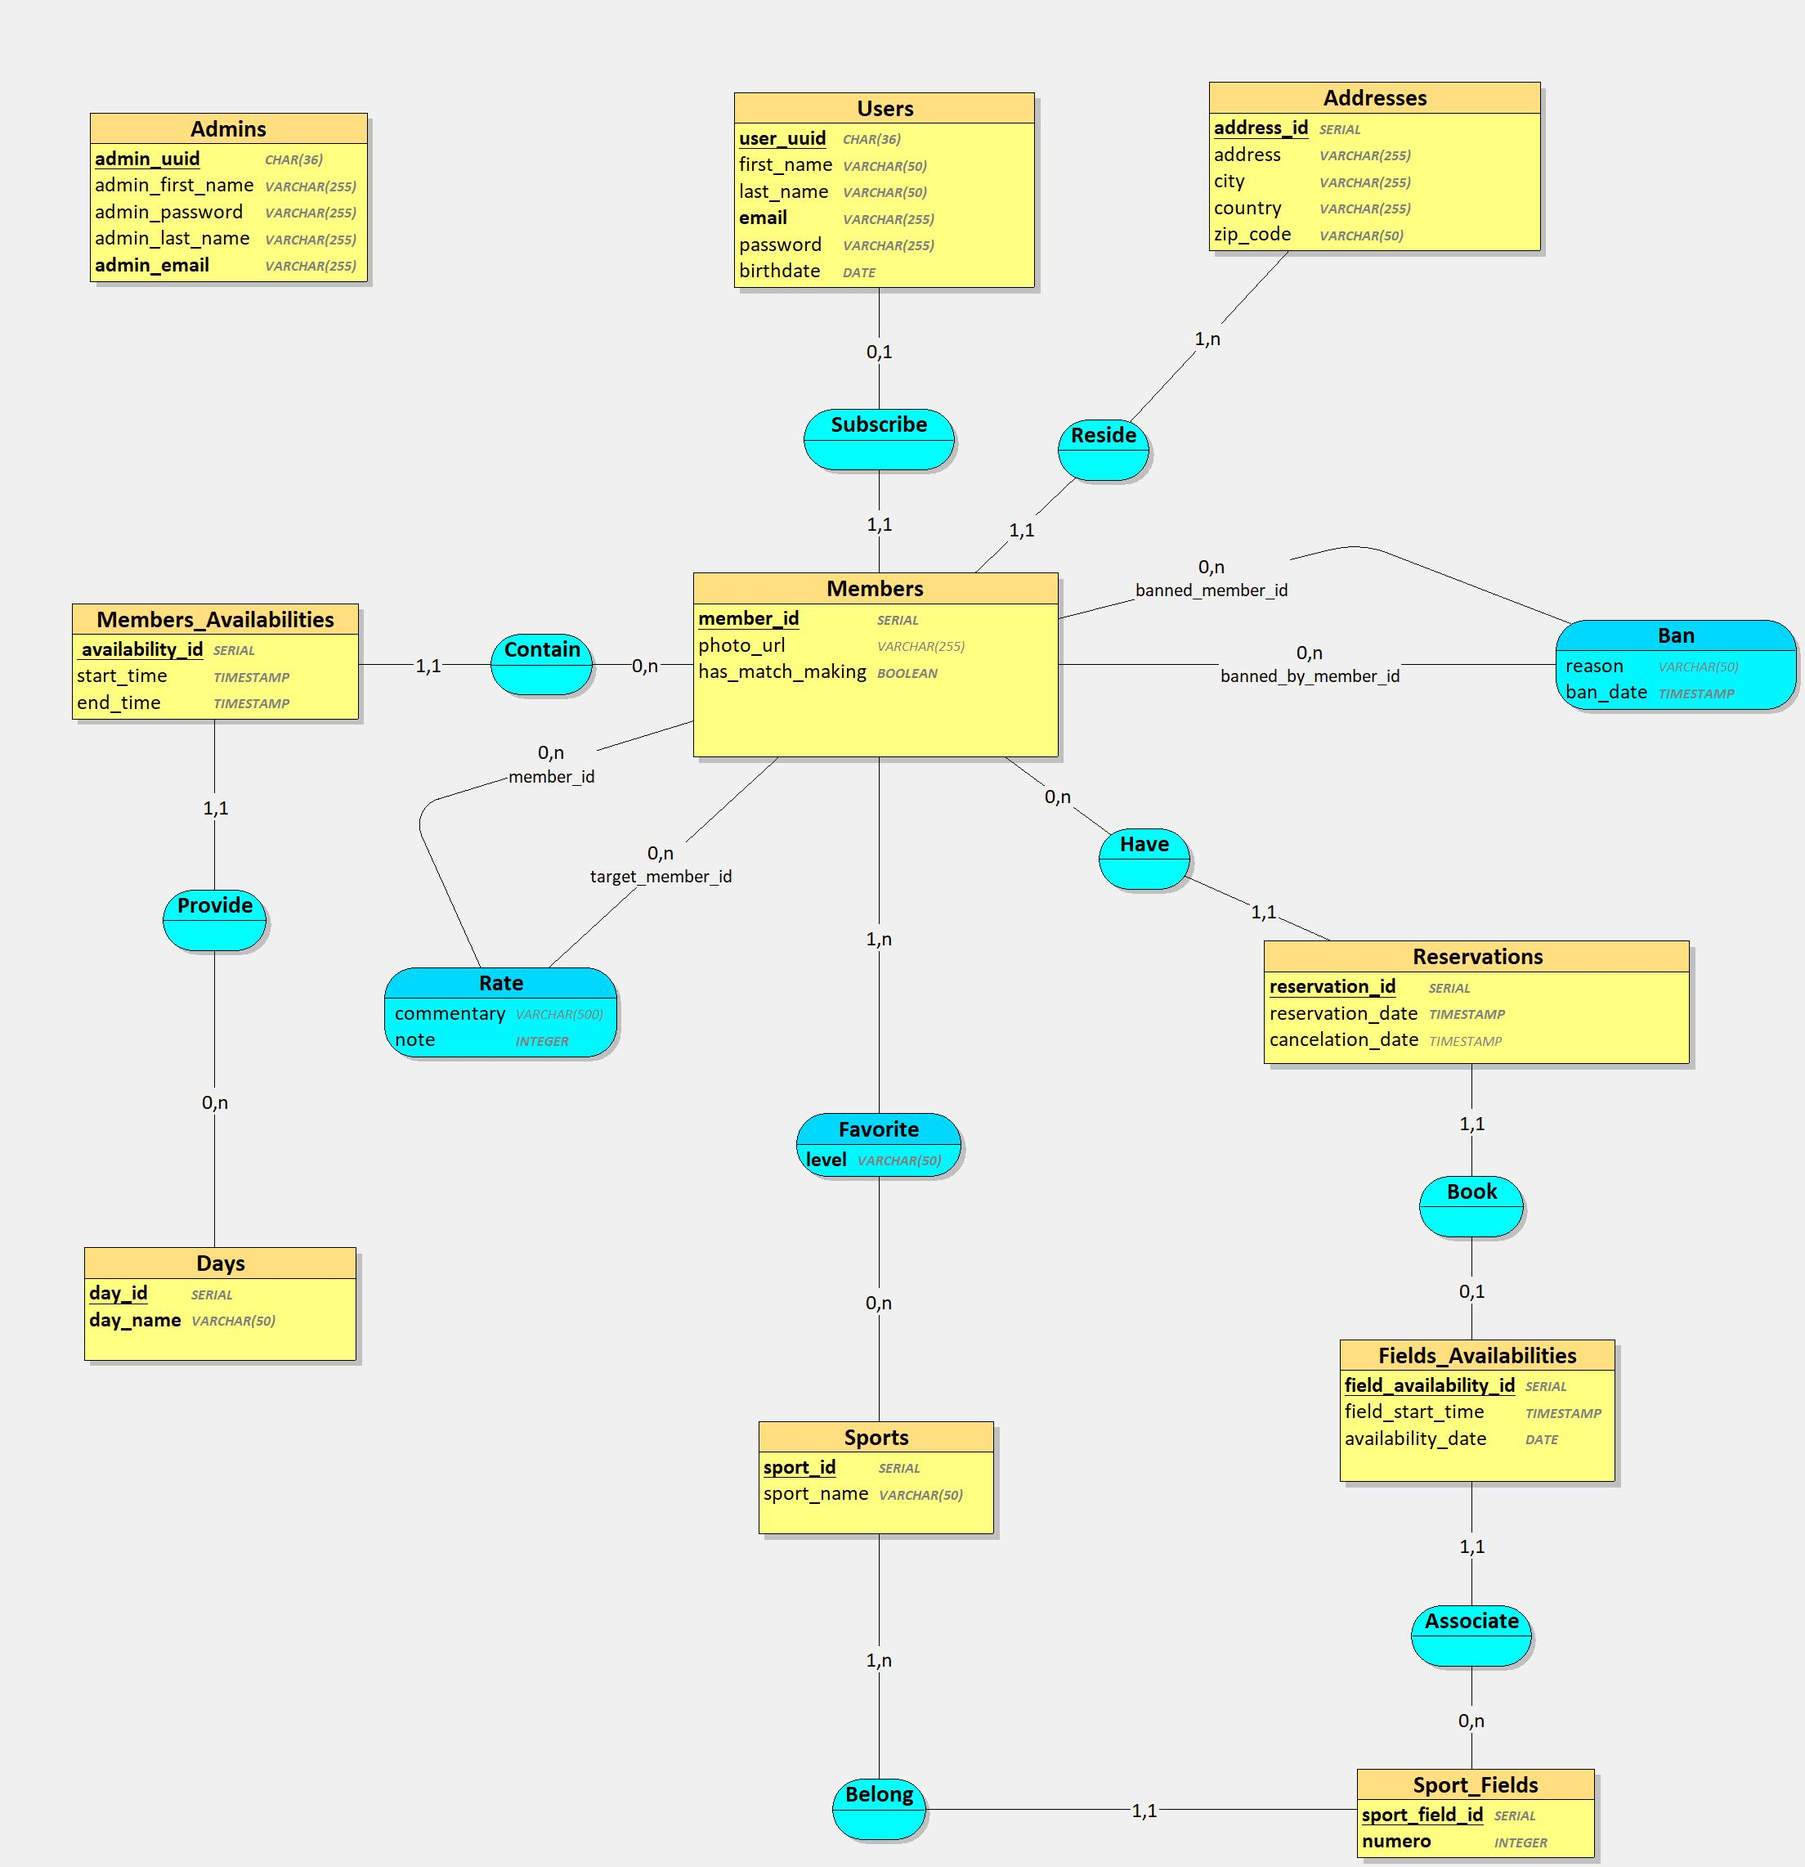
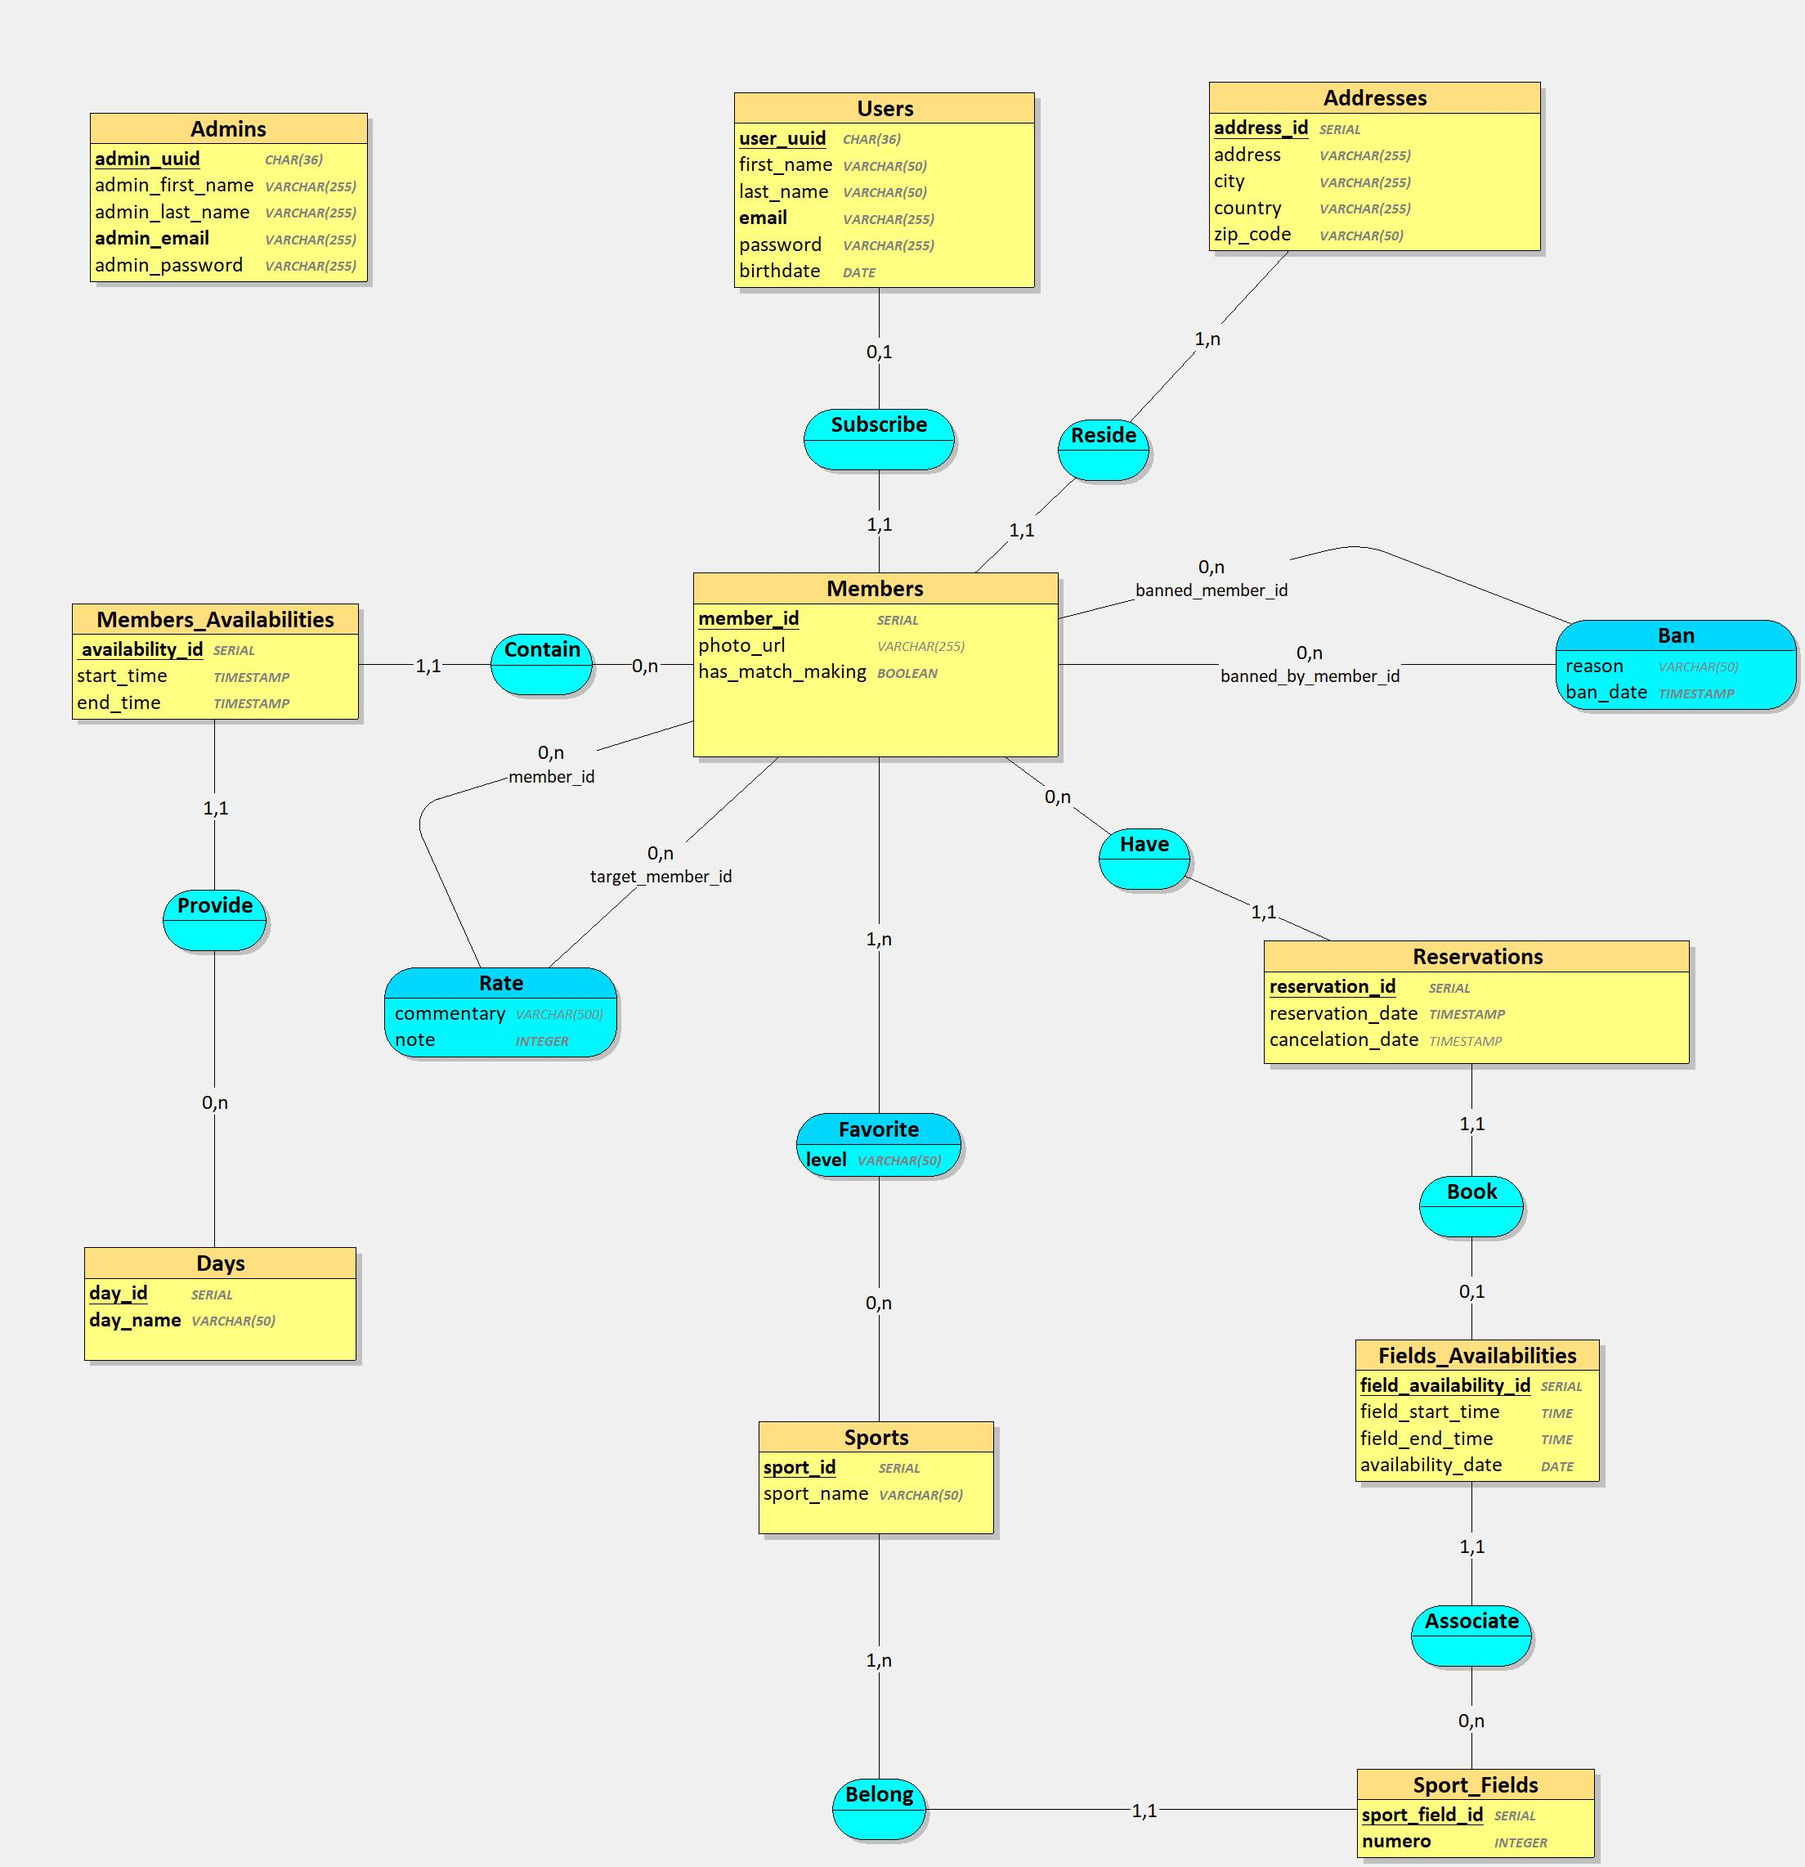
docs: update data_dictionary.md

Changed region(s): [[0.7188, 0.7153, 0.9062, 0.8086], [0.0625, 0.0933, 0.1562, 0.1555]]

diff --git a/doc/Merise/data_dictionary.md b/doc/Merise/data_dictionary.md
@@ -1,15 +1,58 @@
 | Entité  | Attribut         | Type de données | Longueur | Contraintes      | Description                                          | Exemple                                     |
 |---------|------------------|-----------------|----------|------------------|------------------------------------------------------|--------------------------------------------|
-| Members | member_id        | SERIAL          | -        | Unique, Requis   | Identifiant unique du membre                 | 20                                           |
-|         | photo_url        | VARCHAR         | 255      | Facultatif       | URL de l'image de profil du membre           | https://example.com/path/to/image.jpg       |
-|         | has_match_making | BOOLEAN         | -        | -                | Indique match making est active               | true                                        |
-| Users   | user_uuid        | UUID            | -        | Unique, Requis   | Identifiant unique d'user                 | '03183852-55b9-4808-954c-d390fbbed6f2'                                           |
-|         | first_name        | VARCHAR         | 255      | Requis           | Prénom de l'utilisateur                              | Alain                                       |
-|         | last_name         | VARCHAR         | 255      | Requis           | Nom de l'utilisateur                                 | Parfait                                     |
-|         | email             | VARCHAR         | 255      | Requis           | Adresse email de l'utilisateur                       | alain@example.com                           |
-|         | password          | VARCHAR         | 255      | Requis           | Mot de passe email de l'utilisateur                  | p4ssw0rD1!                          |
-|         | birth_date        | DATE            | -        | Requis           | Date de naissance de l'utilisateur                   | 1990-01-01                                  |
-
-| Addresses | addresse_id       | SERIAL          | -        | Unique, Requis   | Identifiant unique de l'adresse                 | 80                                           |
-|          | address           | VARCHAR         | 255      | Requis           | Adresse du membre                     | 37 rue de Bancel, 69007                     |
-|         | zip_code           | VARCHAR         | 255      | Requis           | Adresse postale du membre                     | 37 rue de Bancel, 69007                     |
+| Users   | user_uuid        | UUID            | -        | UNIQUE, REQUIS, PRIMARY KEY   | Identifiant unique de l'utilisateur                 | '03183852-55b9-4808-954c-d390fbbed6f2'                                           |
+|         | first_name        | VARCHAR         | 255      | REQUIS           | Prénom de l'utilisateur                              | 'Alain'                                       |
+|         | last_name         | VARCHAR         | 255      | REQUIS           | Nom de l'utilisateur                                 | 'Parfait'                                     |
+|         | email             | VARCHAR         | 255      | UNIQUE, REQUIS           | Adresse email de l'utilisateur                       | 'alain@example.com '                          |
+|         | password          | VARCHAR         | 255      | REQUIS           | Mot de passe email de l'utilisateur                  | 'p4ssw0rD1!'                          |
+|         | birth_date        | DATE            | -        | REQUIS           | Date de naissance de l'utilisateur                   | 1990-01-01                                  |
+| Addresses | addresse_id       | SERIAL        | -        | UNIQUE, REQUIS, PRIMARY KEY   | Identifiant unique de l'adresse                 | 80                                           |
+|          | address           | VARCHAR         | 255      | REQUIS           | Adresse du membre                     | '37 rue de Bancel'                     |
+|          | city           | VARCHAR         | 255      | REQUIS           | Ville de l'adresse du membre                     | 'Lyon'                     |
+|          | country           | VARCHAR         | 255      | REQUIS           | Pays de l'adresse du membre                     | 'France'                     |
+|          | zip_code           | VARCHAR         | 50      | REQUIS           | Code postale de l'adresse du membre                     | '69007'                     |
+| Sports | sport_id       | SERIAL        | -        | UNIQUE, REQUIS, PRIMARY KEY   | Identifiant unique du sport                 | 3                                           |
+|          | sport_name           | VARCHAR         | 50      | REQUIS           | Nom du sport                     | 'Badminton'                     |
+| Sport_Fields | sport_field_id       | SERIAL        | -        | UNIQUE, REQUIS, PRIMARY KEY   | Identifiant unique du terrain selon le sport                 | 8                                           |
+|          | numero           | INTEGER          | 50      | REQUIS           | Numero du terrain                     | 5                     |
+|             | sport_id       | INTEGER        | -        | UNIQUE, REQUIS, FOREIGN KEY (référence Sports)   | Identifiant unique du sport                 | 3                                           |
+| Fields_Availabilities | field_availability_id       | SERIAL        | -        | UNIQUE, REQUIS, PRIMARY KEY   | Identifiant unique de la disponibilité horaire                 | 152                                           |
+|            | field_start_time       | TIME        | -        | REQUIS      |  Heure de début de la disponibilité horaire d'un terrain de sport                 | '09:00:00'                                           |
+|            | field_end_time       | TIME        | -        | REQUIS      | Heure de fin de la disponibilité horaire d'un terrain                | '10:00:00'                                           |
+|            | availability_date       | DATE        | -        | REQUIS      | Date de la disponibilité horaire d'un terrain de sport                | '2024-07-16'                                           |
+|            | sport_field_id       | SERIAL        | -        | UNIQUE, REQUIS, FOREIGN KEY (référence Sport_Fields)   | Identifiant unique du terrain selon le sport                 | 8                                           |
+| Days | day_id        | SERIAL          | -        | UNIQUE, REQUIS, PRIMARY KEY   | Identifiant unique du jour                 | 6                                           |
+|         | day_name         | VARCHAR         | 50      | REQUIS       | Nom du jour de la semaine           | 'Samedi'       |
+| Admins | admin_uuid         | UUID          | -        | UNIQUE, REQUIS, PRIMARY KEY   | Identifiant unique du membre                 | '03183852-55b9-4808-954c-d390fbbed6f2'                                           |
+|         | admin_first_name        | VARCHAR         | 255      | REQUIS           | Prénom de l'admin                              | 'Alexis'                                       |
+|         | admin_last_name         | VARCHAR         | 255      | REQUIS           | Nom de l'admin                                  | 'Perrin'                                     |
+|         | admin_email             | VARCHAR         | 255      | UNIQUE, REQUIS           | Adresse email de l'admin                       | 'admin@example.com '                          |
+|         | admin_password          | VARCHAR         | 255      | REQUIS           | Mot de passe email de l'admin                   | 'Azerty1!'                          |
+| Members | member_id        | SERIAL          | -        | UNIQUE, REQUIS, PRIMARY KEY   | Identifiant unique du membre                 | 20                                           |
+|         | photo_url        | VARCHAR         | 255      | FACULTATIF       | URL de l'image de profil du membre           | ''       |
+|         | has_match_making | BOOLEAN         | -        | REQUIS                | Indique si le match making est activé pour le membre               | true                                        |
+|        | addresse_id       | INTEGER        | -        | UNIQUE, REQUIS, FOREIGN KEY (référence Addresses)   | Identifiant unique de l'adresse du membre                 | 80                                           |
+|         | user_uuid        | UUID            | -        | UNIQUE, REQUIS, FOREIGN KEY (référence Users)   | Identifiant unique de l'utilisateur associé au membre                 | '03183852-55b9-4808-954c-d390fbbed6f2'                                           |
+| Members_Reservations | reservation_id        | SERIAL          | -        | UNIQUE, REQUIS, PRIMARY KEY   | Identifiant unique de la réservation                 | 20                                           |
+|         | reservation_date        | TIMESTAMP         | -      | REQUIS       | Date et heure de la cancelation de la réservation           | '2024-07-16 09:00:00'         |
+|         | cancelation_date        | TIMESTAMP         | -      | FACULTATIF       | Date et heure de la cancelation de la réservation          | '2024-07-15 16:30:08'      |
+|         | field_availability_id       | INTEGER        | -        | UNIQUE, REQUIS, FOREIGN KEY (référence Fields_Availabilities)   | Identifiant unique de la disponibilité horaire du terrain réservé                 | 152                                           |
+|         | member_id        | INTEGER          | -        | UNIQUE, REQUIS, FOREIGN KEY (référence Members)   | Identifiant unique du membre qui a effectué la réservation                 | 20                                           |
+| Members_Availabilities | _availability_id        | SERIAL          | -        | UNIQUE, REQUIS, PRIMARY KEY   | Identifiant unique de la disponibilité du membre                 | 187                                           |
+|            | start_time       | TIMESTAMP        | -        | REQUIS      |  Date et heure de début de la disponibilité du membre                 | '2024-03-16 18:00:00'                                           |
+|            | end_time       | TIMESTAMP        | -        | REQUIS      |  Date et heure de la fin de la disponibilité du membre                 | '2024-03-16 21:00:00'                                           |
+|            | day_id        | INTEGER          | -        | UNIQUE, REQUIS, FOREIGN KEY (référence Days)   | Identifiant unique du jour de la semaine où le membre est disponible                 | 6                                           |
+|         | member_id        | INTEGER          | -        | UNIQUE, REQUIS, FOREIGN KEY (référence Members)   | Identifiant unique du membre qui a enregistré sa disponibilité                 | 20                                           |
+| Members_Sports | member_id        | INTEGER          | -        | UNIQUE, REQUIS, PRIMARY KEY, FOREIGN KEY (référence Members)   | Identifiant unique de la disponibilité du membre                 | 187                                           |
+|               | sport_id       | INTEGER        | -        | UNIQUE, REQUIS, PRIMARY KEY, FOREIGN KEY (référence Sports)   | Identifiant unique du sport                 | 3                                           |
+|             | level        | VARCHAR         | 50      | REQUIS       | Niveau de jeu du membre dans le sport defini           | 'Débutant'       |
+|         | member_id        | INTEGER          | -        | UNIQUE, REQUIS, FOREIGN KEY (référence Members)   | Identifiant unique du membre                 | 20                                           |
+|             | sport_id       | INTEGER        | -        | UNIQUE, REQUIS, FOREIGN KEY (référence Sports)   | Identifiant unique du sport                 | 3                                           |
+| Members_Bans | banned_member_id        | INTEGER          | -        | UNIQUE, REQUIS, PRIMARY KEY, FOREIGN KEY (référence Members)   | Identifiant unique du membre banni                | 20                                           |
+|          | banned_by_member_id        | INTEGER          | -        | UNIQUE, REQUIS, PRIMARY KEY, FOREIGN KEY (référence Members)   | Identifiant unique du membre qui a banni                | 50                                           |
+|         | reason        | VARCHAR         | 50      | FACULTATIF       | Raison pour laquelle un membre a décidé de bannir un autre membre           | 'Comportement antisportif et refus de respecter les règles du jeu'       |
+|         | ban_date        | TIMESTAMP         | -      | REQUIS       | Date et heure à laquelle le bannissement a été généré          | '2024-03-16 14:30:00'       |
+| Members_Notations | member_id        | INTEGER          | -        | UNIQUE, REQUIS, PRIMARY KEY, FOREIGN KEY (référence Members)   | Identifiant unique du membre qui a noté un autre membre                | 20                                           |
+|          | target_member_id        | INTEGER          | -        | UNIQUE, REQUIS, PRIMARY KEY, FOREIGN KEY (référence Members)   | Identifiant unique du membre qui a été noté par un autre membre                | 50                                           |
+|         | commentary        | VARCHAR         | 500      | FACULTATIF       | Raison pour laquelle un membre a décidé de noter un autre membre           | 'J'ai eu le plaisir de jouer avec Alain au badminton hier soir. C'était un match très agréable et compétitif.' '       |
+|             | note       | INTEGER        | -        | REQUIS   | Note donné au membre adversaire apres le match                 | 4                                           |
